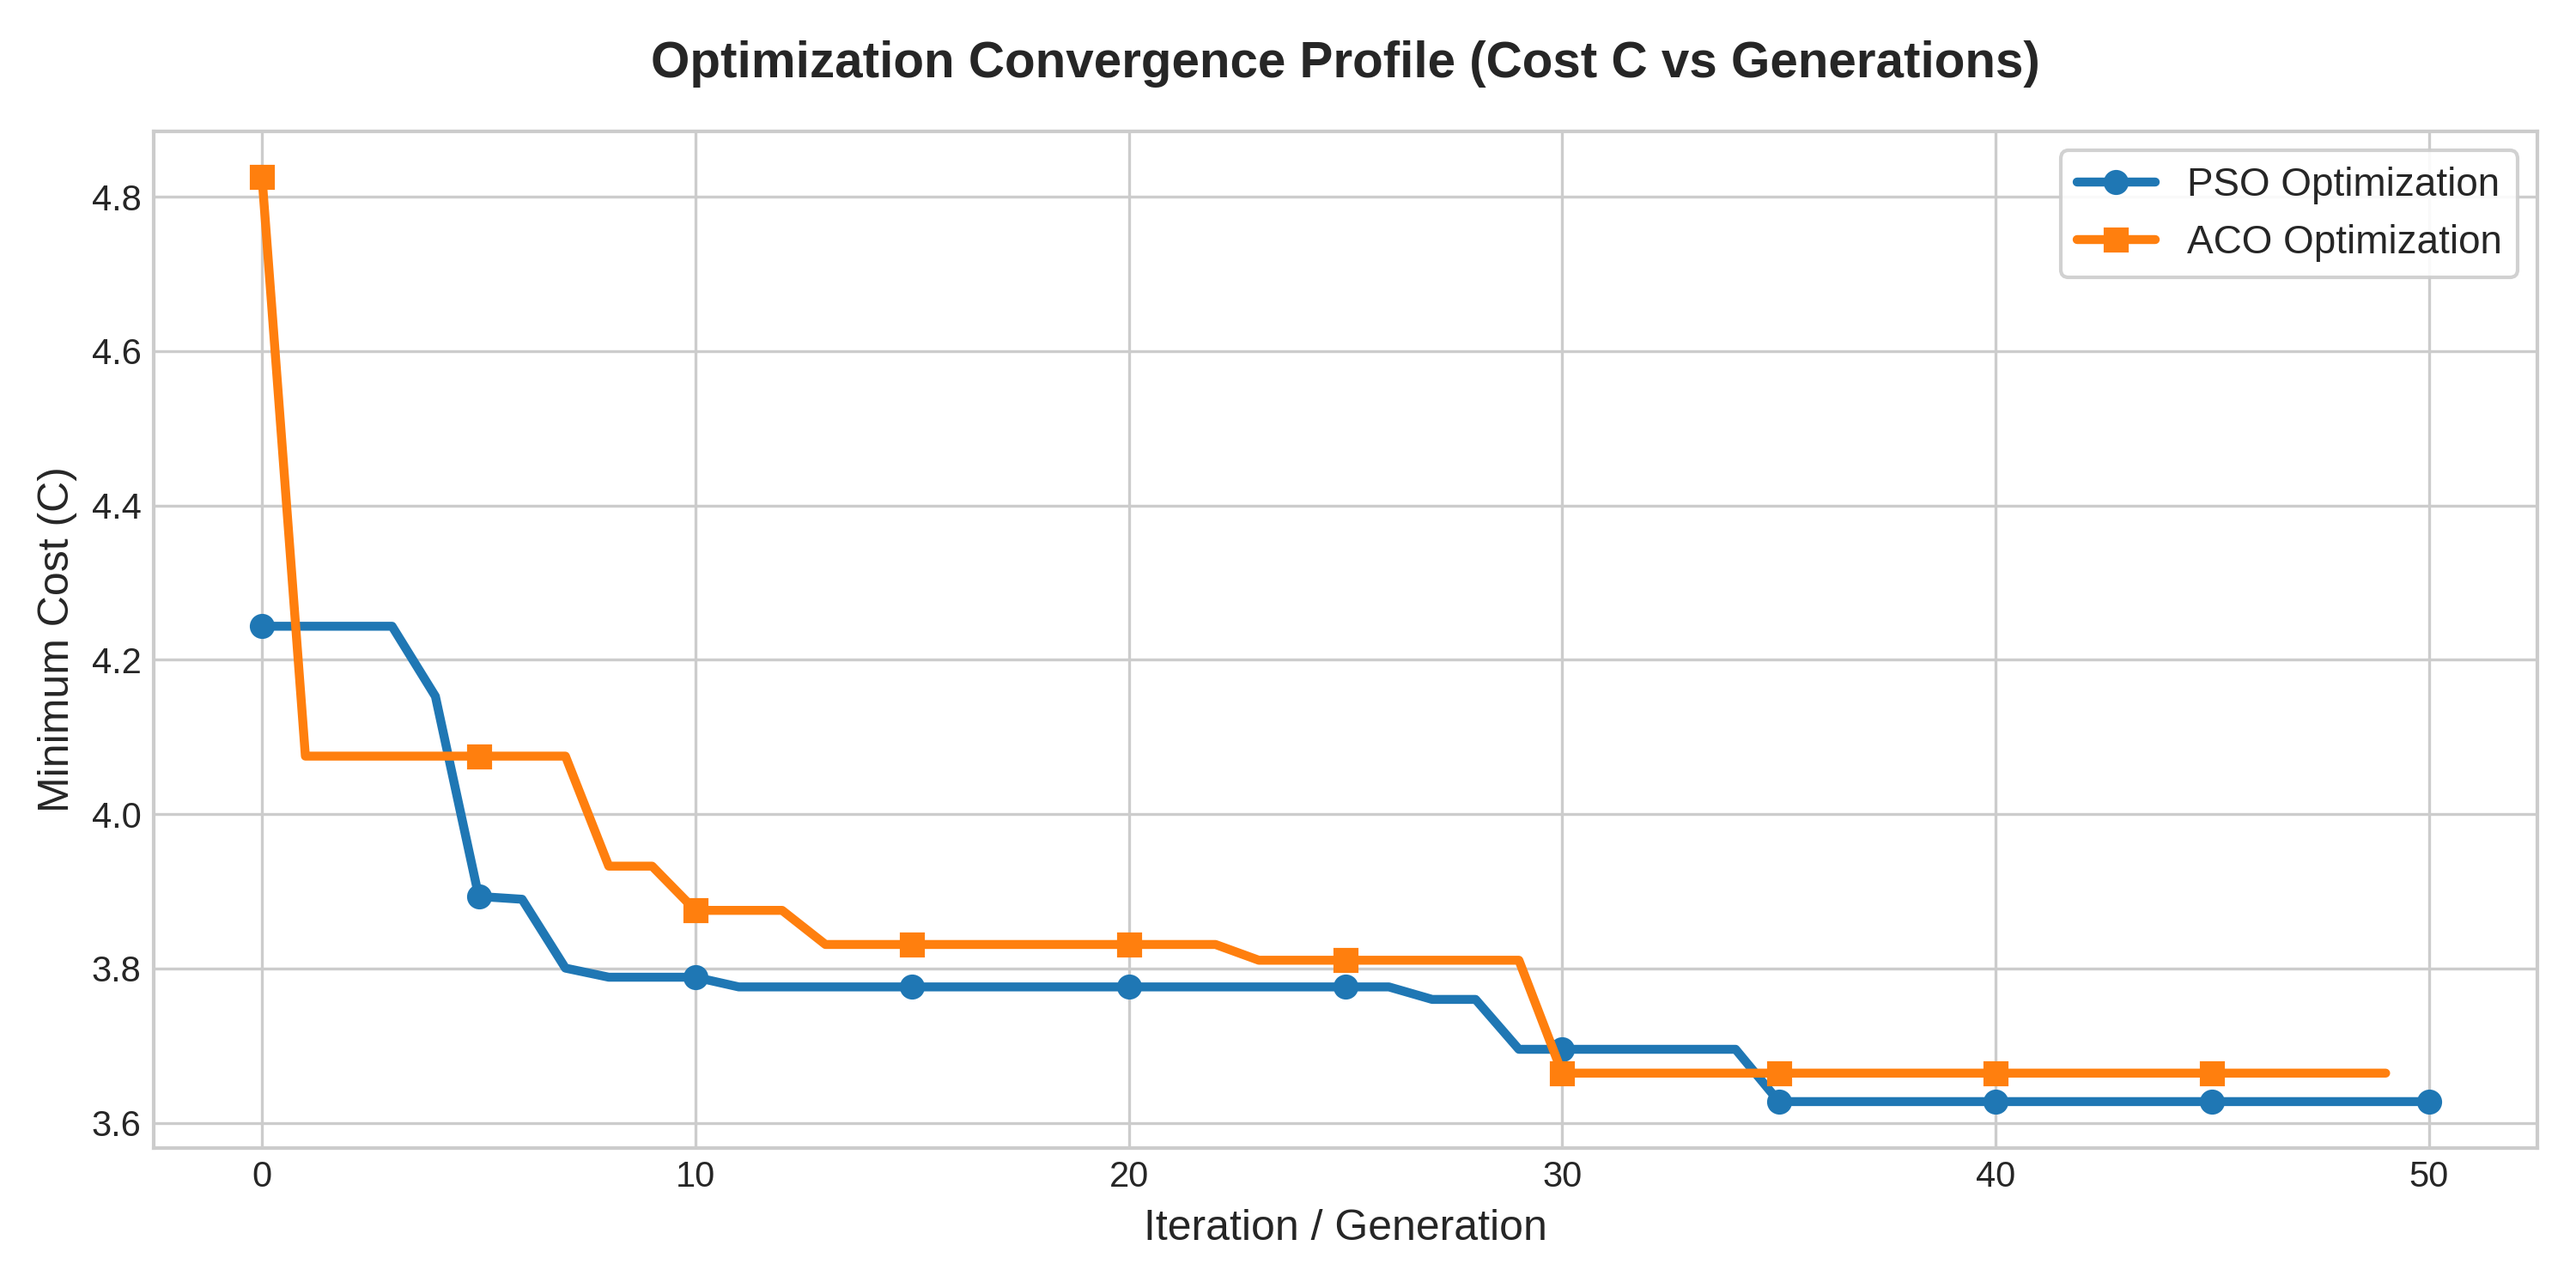
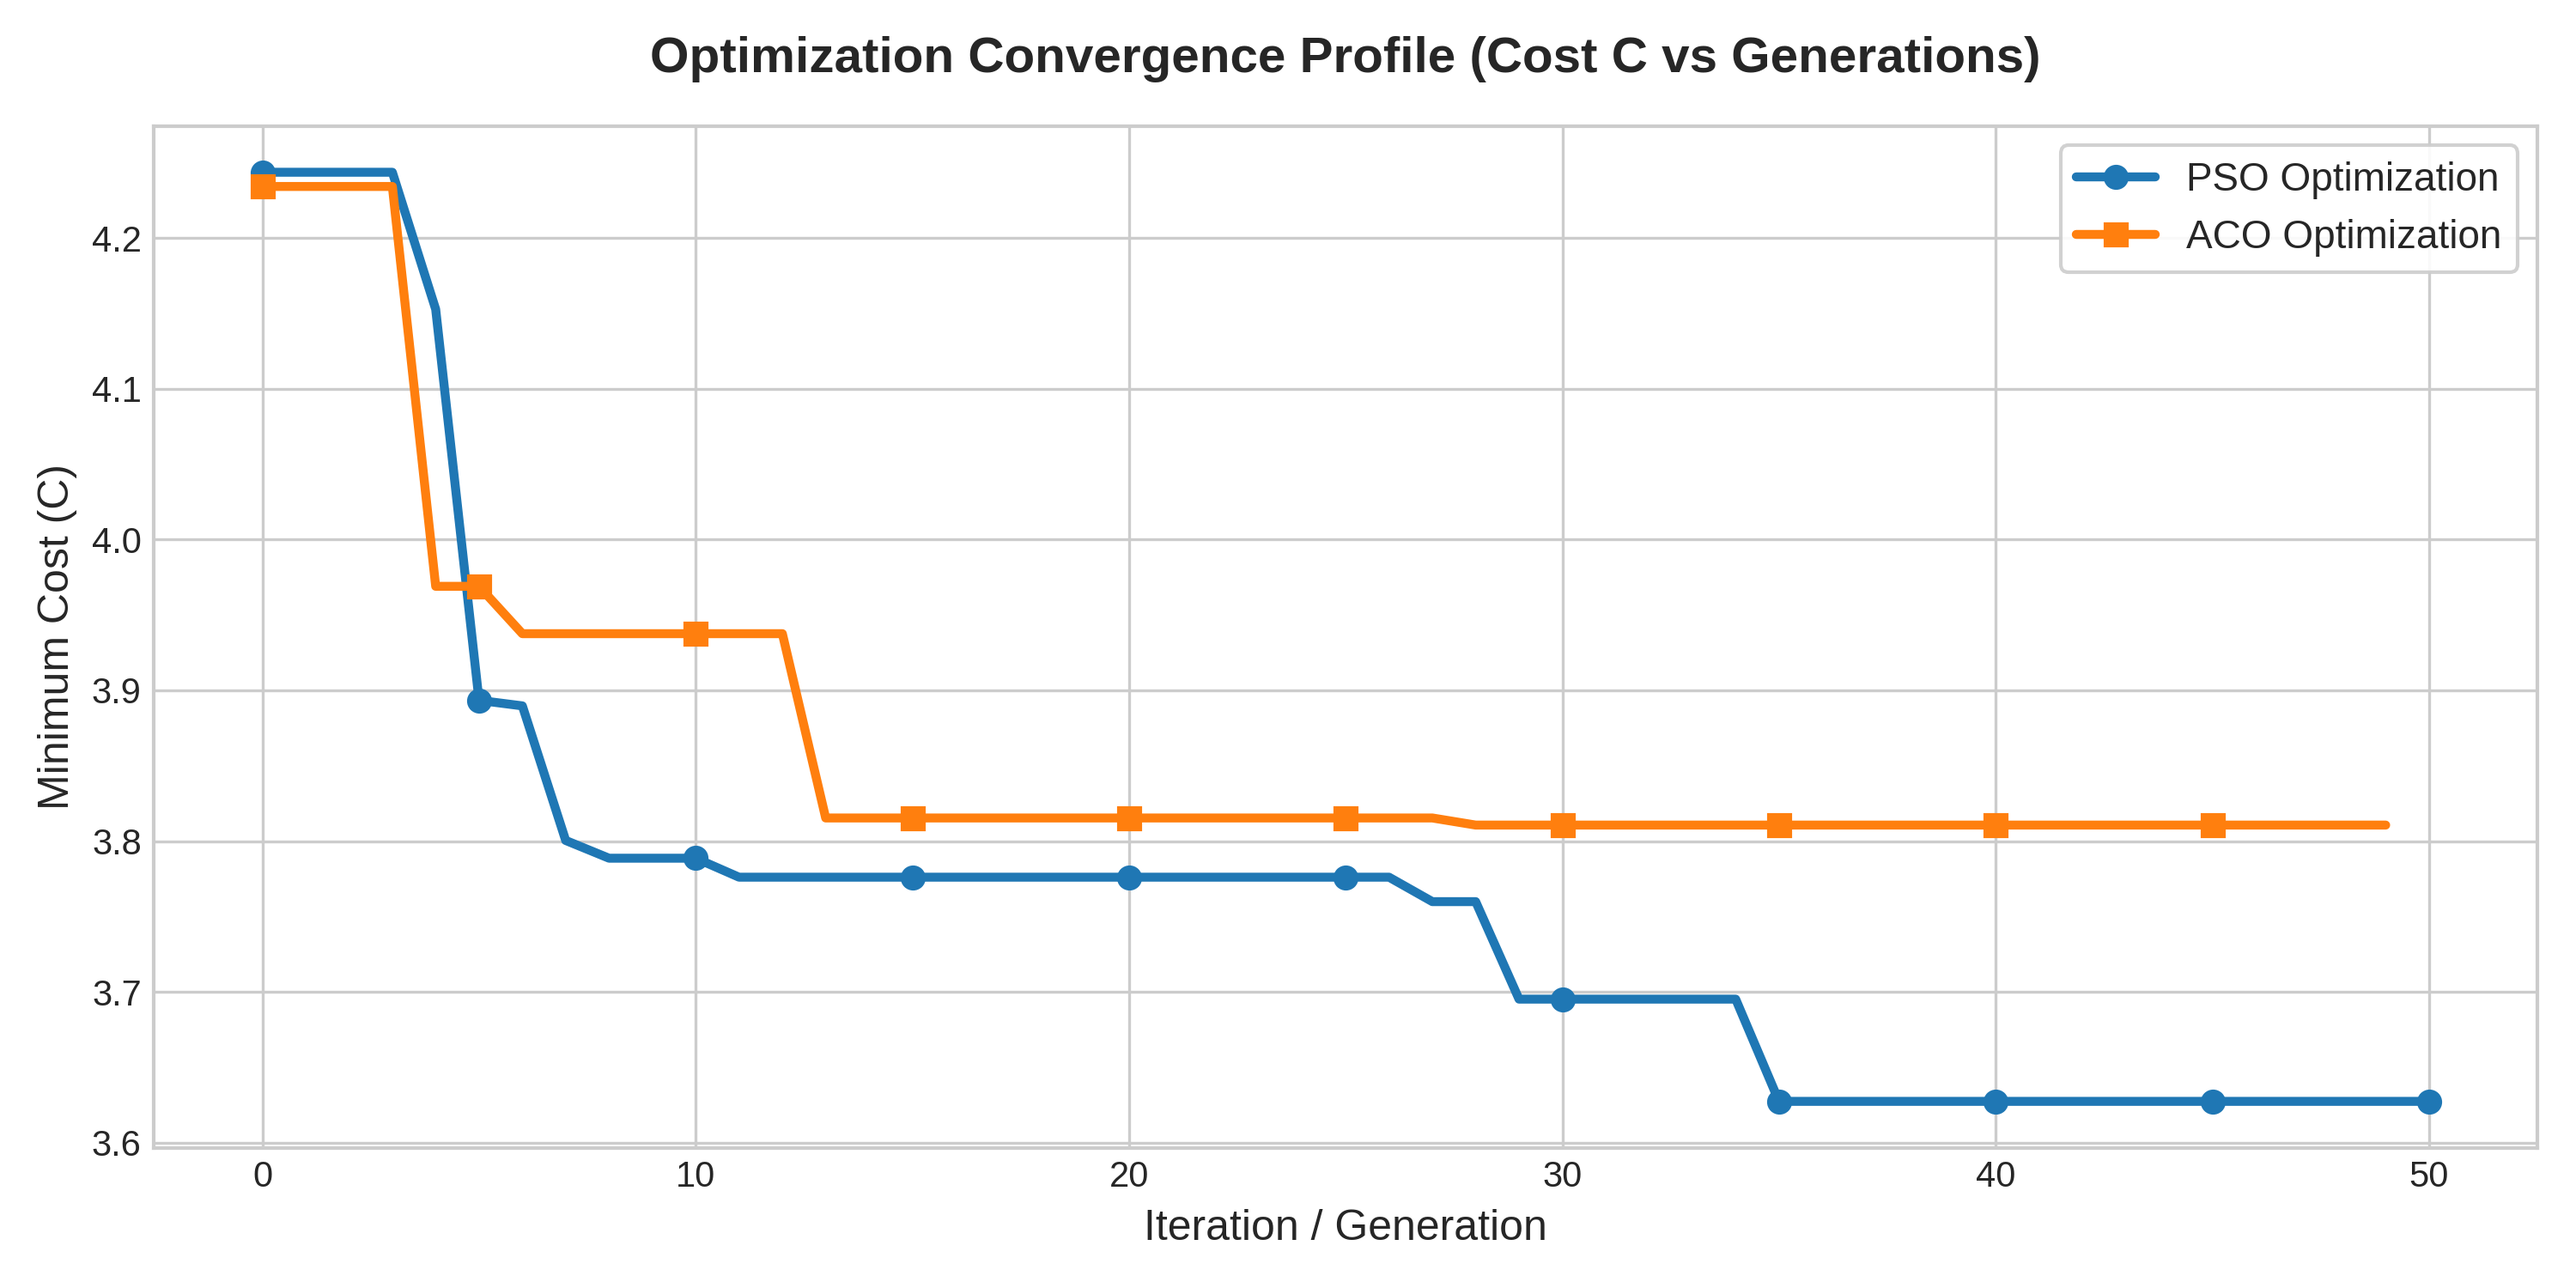
fix: Use stop_count metric instead of avg_stops for cost function

diff --git a/src/main.py b/src/main.py
@@ -34,7 +34,6 @@ def sim_baseline(duration, seed):
     """Runs a baseline simulation with the default fuzzy logic controller parameters."""
     click.echo("Running baseline simulation with default hand-tuned fuzzy controller...")
     
-    # Use default constructor (uses pre-configured fuzzy sets & rules)
     controller = FuzzyController()
     sim = TrafficSimulation(sim_duration=duration)
     cost, metrics = sim.run(controller, seed=seed)
@@ -44,7 +43,8 @@ def sim_baseline(duration, seed):
     click.echo(f"Total Vehicles      : {metrics['total_vehicles']}")
     click.echo(f"Avg Wait Time (W)   : {metrics['avg_wait']:.4f} seconds")
     click.echo(f"Avg Queue Length (Q): {metrics['avg_queue']:.4f} vehicles")
-    click.echo(f"Avg Stops per Veh(S): {metrics['avg_stops']:.4f}")
+    click.echo(f"Vehicle Stops (S)   : {metrics['stop_count']} stops "
+               f"({metrics['avg_stops']*100:.2f}% of vehicles)")
     click.echo(f"Total Evaluated Cost: {cost:.4f}")
 
 @cli.command('optimize-pso')
@@ -191,7 +191,7 @@ def compare(duration, seed):
     # Format and print the comparison matrix
     headers = ["Metric", "Baseline (Initial)", "PSO Optimized", "ACO Optimized", "PSO Imp.", "ACO Imp."]
     
-    def get_row(name, val_b, val_p, val_a, is_pct=False):
+    def get_row(name, val_b, val_p, val_a, is_pct=False, is_count=False):
         imp_p = (val_b - val_p) / val_b * 100.0 if val_b > 0.0 else 0.0
         imp_a = (val_b - val_a) / val_b * 100.0 if val_b > 0.0 else 0.0
         
@@ -200,13 +200,16 @@ def compare(duration, seed):
         
         if is_pct:
             return [name, f"{val_b * 100.0:.2f}%", f"{val_p * 100.0:.2f}%", f"{val_a * 100.0:.2f}%", f"{sign_p}{imp_p:.1f}%", f"{sign_a}{imp_a:.1f}%"]
+        elif is_count:
+            return [name, f"{val_b:.0f}", f"{val_p:.0f}", f"{val_a:.0f}", f"{sign_p}{imp_p:.1f}%", f"{sign_a}{imp_a:.1f}%"]
         else:
             return [name, f"{val_b:.4f}", f"{val_p:.4f}", f"{val_a:.4f}", f"{sign_p}{imp_p:.1f}%", f"{sign_a}{imp_a:.1f}%"]
             
     rows = [
         get_row("Avg Wait W (s)", metrics_base['avg_wait'], metrics_pso['avg_wait'], metrics_aco['avg_wait']),
         get_row("Avg Queue Q", metrics_base['avg_queue'], metrics_pso['avg_queue'], metrics_aco['avg_queue']),
-        get_row("Avg Stops S", metrics_base['avg_stops'], metrics_pso['avg_stops'], metrics_aco['avg_stops'], is_pct=True),
+        get_row("Vehicle Stops S (count)", metrics_base['stop_count'], metrics_pso['stop_count'], metrics_aco['stop_count'], is_count=True),
+        get_row("Stop Rate (informational)", metrics_base['avg_stops'], metrics_pso['avg_stops'], metrics_aco['avg_stops'], is_pct=True),
         get_row("Evaluation Cost C", cost_base, cost_pso, cost_aco)
     ]
     

diff --git a/src/simulation.py b/src/simulation.py
@@ -252,25 +252,27 @@ class TrafficSimulation:
             if w > 0.0:
                 stops_count += 1
                 
-        num_vehicles = len(all_vehicles)
-        avg_w = np.mean(wait_times) if num_vehicles > 0 else 0.0
-        avg_s = (stops_count / num_vehicles) if num_vehicles > 0 else 0.0
-        
-        # Average queue length is the average of sum(q1_len + q2_len) / 2 over all seconds
-        if len(history['time']) > 0:
-            avg_q = np.mean(np.array(history['q1_len']) + np.array(history['q2_len'])) / 2.0
-        else:
-            avg_q = 0.0
-            
-        # Multi-objective Cost Function
-        cost = self.alpha * avg_w + self.beta * avg_q + self.gamma * avg_s
-        
-        metrics = {
-            'avg_wait': avg_w,
-            'avg_queue': avg_q,
-            'avg_stops': avg_s,
-            'total_vehicles': num_vehicles,
-            'history': history
-        }
-        
-        return cost, metrics
+            num_vehicles = len(all_vehicles)
+            avg_w = np.mean(wait_times) if num_vehicles > 0 else 0.0
+
+            stop_count = stops_count
+            avg_stops_rate = (stops_count / num_vehicles) if num_vehicles > 0 else 0.0
+
+            if len(history['time']) > 0:
+                avg_q = np.mean(np.array(history['q1_len']) + np.array(history['q2_len'])) / 2.0
+            else:
+                avg_q = 0.0
+
+            # Cost function per doc eq (1): C = alpha*W + beta*Q + gamma*S
+            cost = self.alpha * avg_w + self.beta * avg_q + self.gamma * stop_count
+
+            metrics = {
+                'avg_wait': avg_w,
+                'avg_queue': avg_q,
+                'avg_stops': avg_stops_rate,
+                'stop_count': stop_count,
+                'total_vehicles': num_vehicles,
+                'history': history
+            }
+
+            return cost, metrics
